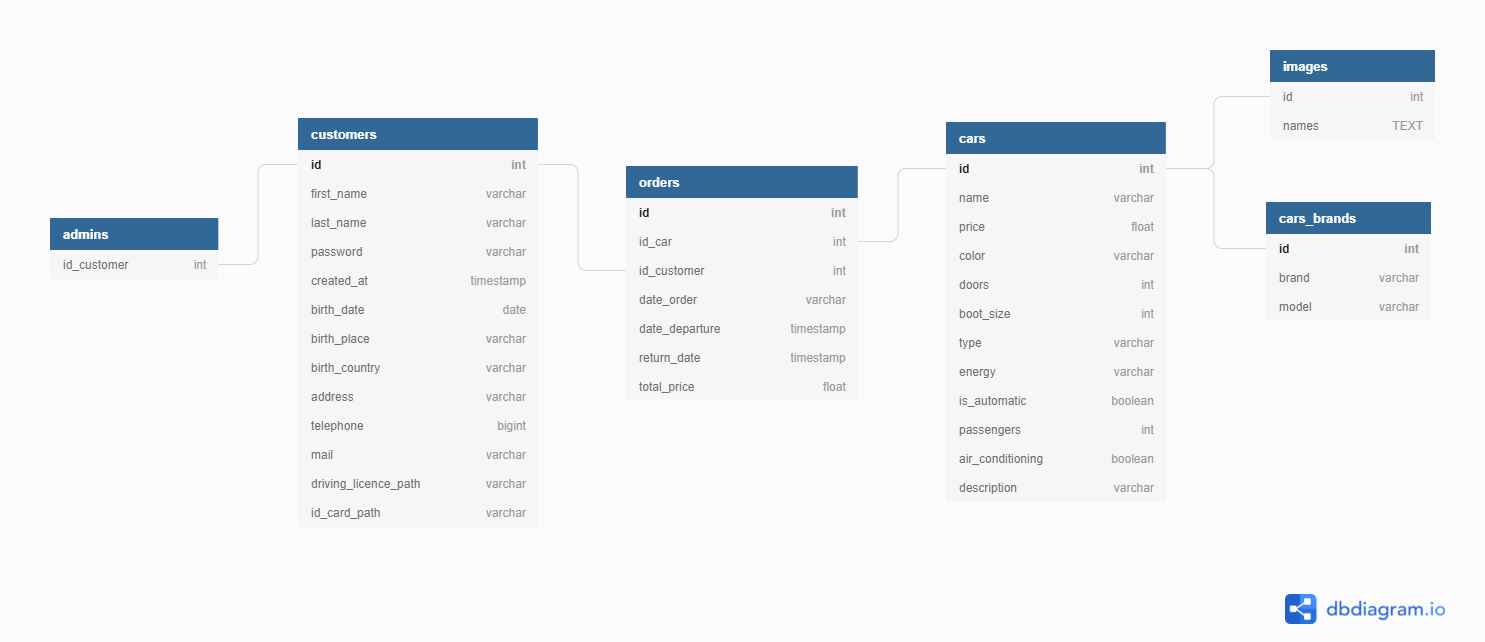
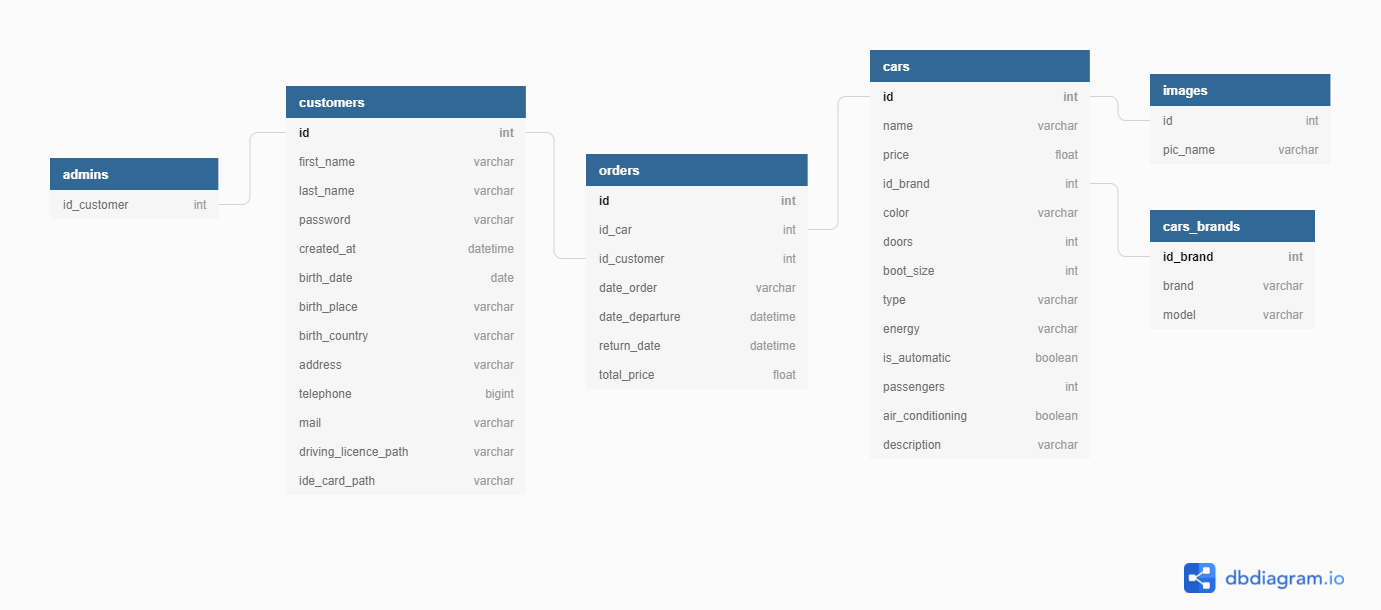
[FIX] db and API

diff --git a/backend/controllers/car.js b/backend/controllers/car.js
@@ -32,6 +32,7 @@ const addCar = (request, response) => {
   const {
     name,
     price,
+    id_brand,
     brand,
     model,
     color,
@@ -46,10 +47,11 @@ const addCar = (request, response) => {
   } = request.body;
 
   client.query(
-    "INSERT INTO cars(name, price, color, doors, boot_size, type, energy, is_automatic, passengers, air_conditioning, description) VALUES($1,$2,$3,$4,$5,$6,$7,$8,$9,$10,$11)",
+    "INSERT INTO cars(name, price, id_brand, color, doors, boot_size, type, energy, is_automatic, passengers, air_conditioning, description) VALUES($1,$2,$3,$4,$5,$6,$7,$8,$9,$10,$11,$12)",
     [
       name,
       price,
+      id_brand,
       color,
       doors,
       boot_size,

diff --git a/backend/routes/car.js b/backend/routes/car.js
@@ -4,10 +4,10 @@ const router = express.Router();
 const carCtrl = require("../controllers/car");
 
 //API RESTFULL
-router.get("/", carCtrl.getCars);
-router.get("/:id", carCtrl.getCarById);
+router.get("/getCars", carCtrl.getCars);
+router.get("/getCar/:id", carCtrl.getCarById);
 router.post("/addCar", carCtrl.addCar);
-router.put("/:id", carCtrl.updateCar);
-router.delete("/:id", carCtrl.deleteCar);
+router.put("/updateCar/:id", carCtrl.updateCar);
+router.delete("/deleteCar/:id", carCtrl.deleteCar);
 
 module.exports = router;
